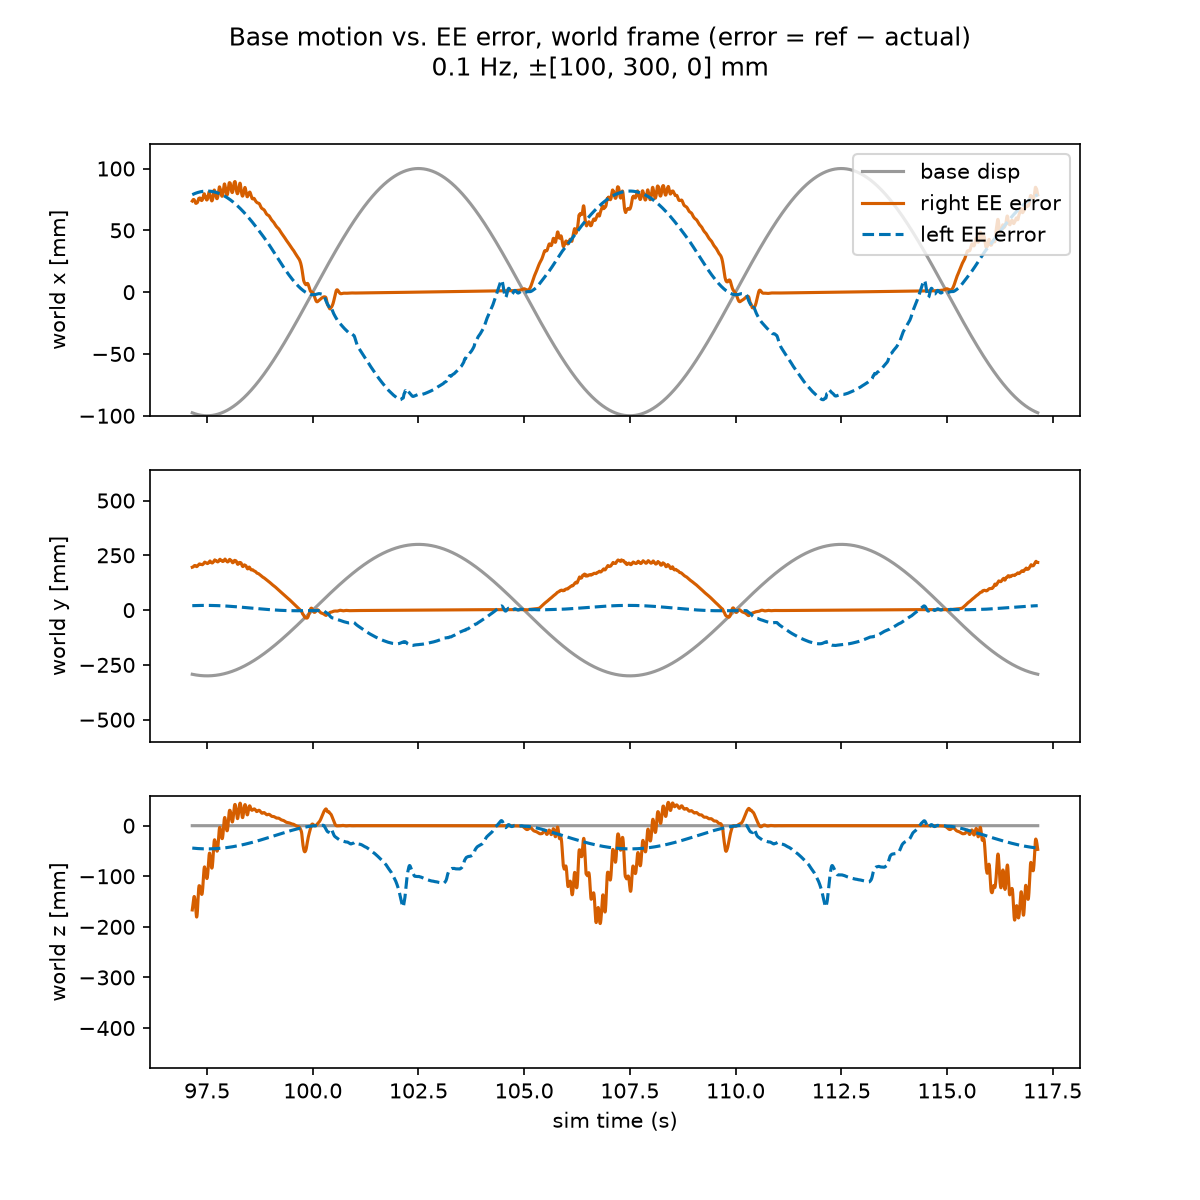
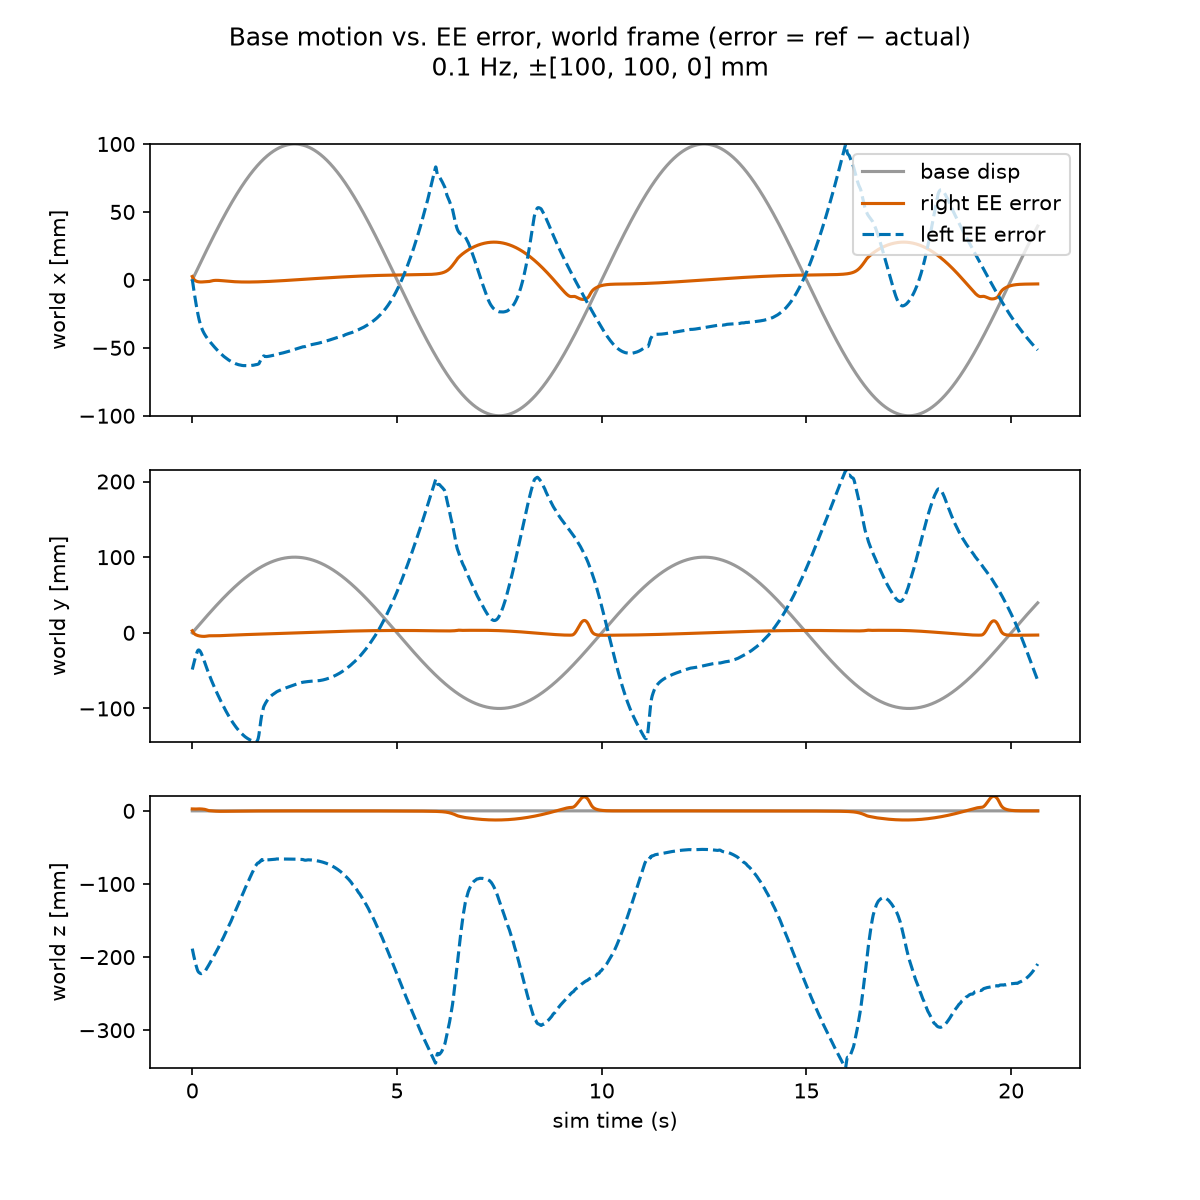
chris

diff --git a/sim/motion.py b/sim/motion.py
@@ -23,7 +23,7 @@ from sim import world
 # --- research levers ---------------------------------------------------
 # Edit these SI values to change the default base-motion scenario used by
 # the main viewer and general-purpose analysis views.
-LINEAR_AMPLITUDE = np.array([0.3, 0.0, 0.0])
+LINEAR_AMPLITUDE = np.array([0.1, 0.1, 0.0])
 ROTATIONAL_AMPLITUDE = np.array([0.0, 0.0, 0.0])
 LINEAR_FREQUENCY = 0.1
 ROTATIONAL_FREQUENCY = 0

diff --git a/controller/desired_pos.py b/controller/desired_pos.py
@@ -16,8 +16,8 @@ from controller.transforms import rotation_from_rpy
 from sim import targets, world
 
 POSES = {
-    "right": {"pos": [0.45, -0.20, 0.10], "rpy": [0.0, 0.0, 0.0]},
-    "left": {"pos": [0.45, 0.20, 0.10], "rpy": [0.0, 0.0, 0.0]},
+    "right": {"pos": [0.45, -.20, 0.10], "rpy": [0.0, 45.0, 190.0]},
+    "left": {"pos": [0.45, 0.40, 0.10], "rpy": [0.0, 0.0, 0.0]},
 }
 
 
